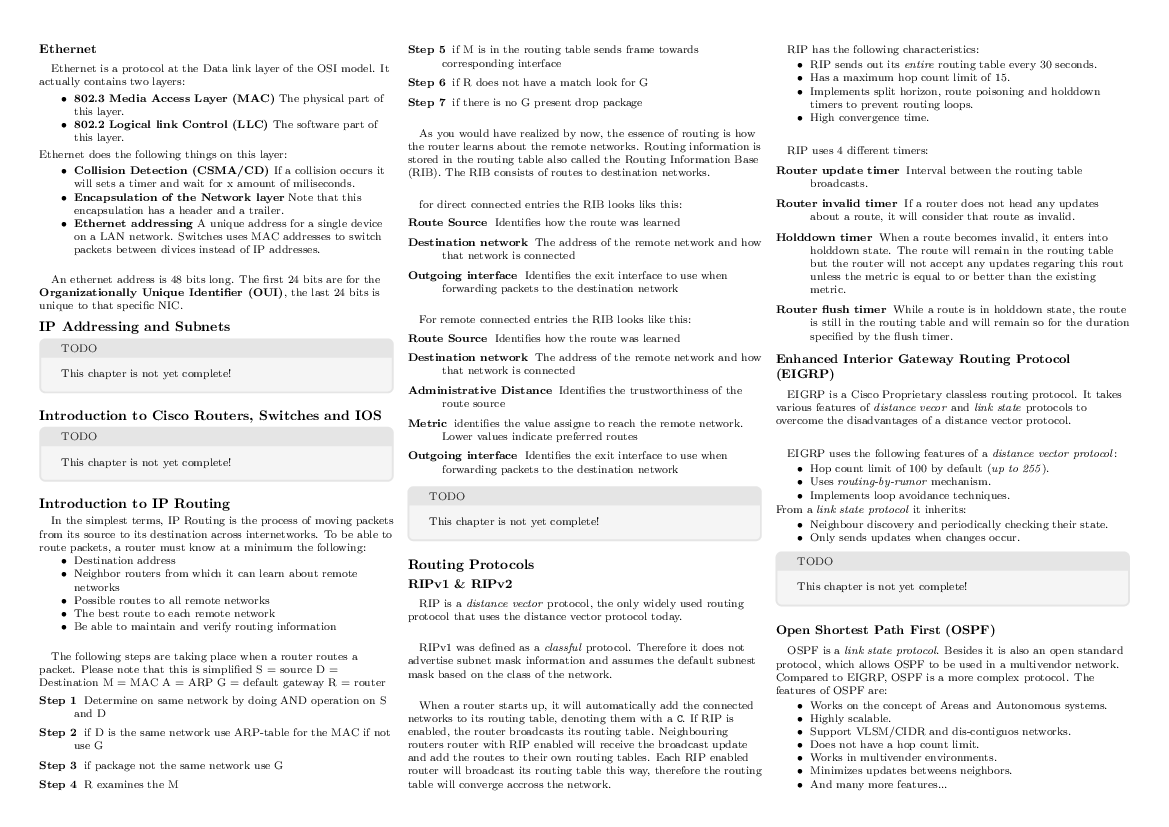
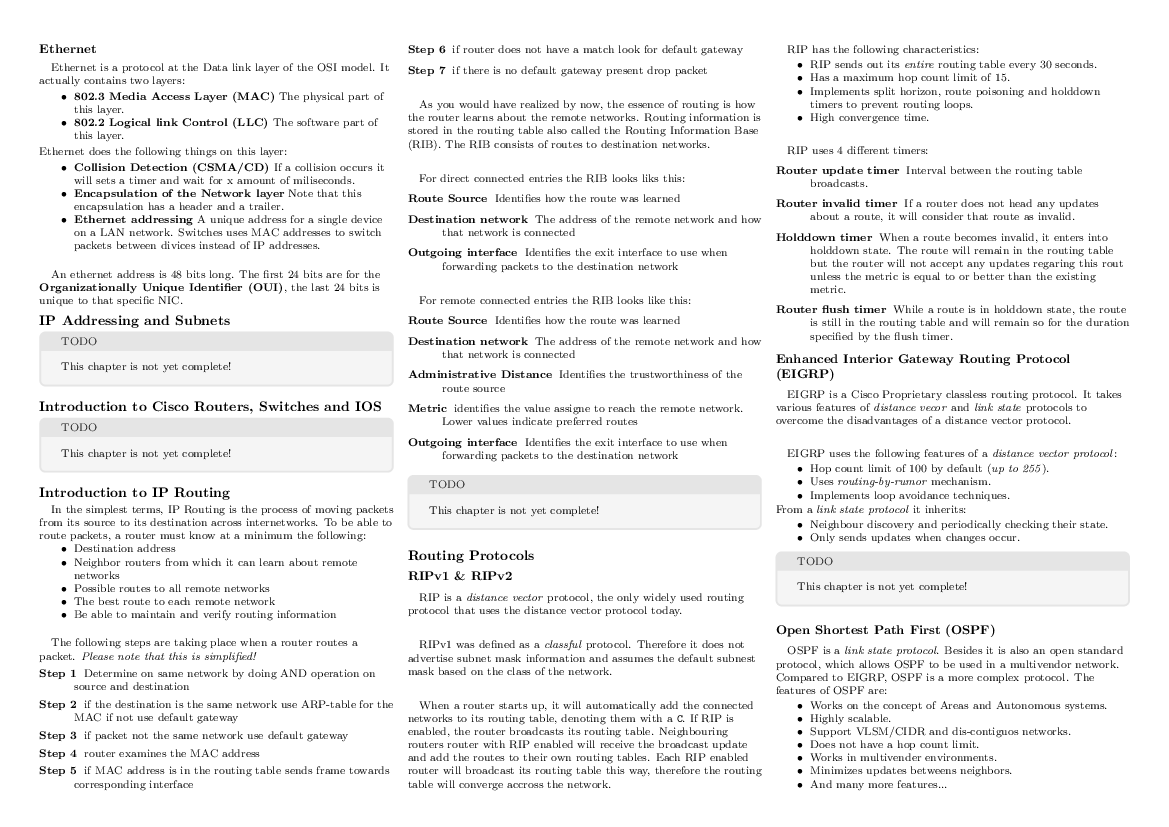
Housekeeping

Changed region(s): [[0.0308, 0.0605, 0.6467, 0.9674], [0.3388, 0.6651, 0.6467, 0.8162]]

diff --git a/summary.tex b/summary.tex
@@ -243,34 +243,24 @@ In the simplest terms, IP Routing is the process of moving packets from its sour
     \item The best route to each remote network
     \item Be able to maintain and verify routing information
 \end{itemize}
-\paragraph{}
-The following steps are taking place when a router routes a packet. Please note that this is simplified
-S = source
-D = Destination
-M = MAC
-A = ARP
-G = default gateway
-R = router
+\paragraph{}The following steps are taking place when a router routes a packet. \textit{Please note that this is simplified!}
 \begin{description}
-	\item[Step 1] Determine on same network by doing AND operation on S and D
-	\item[Step 2] if D is the same network use ARP-table for the MAC if not use G
-	\item[Step 3] if package not the same network use G
-	\item[Step 4] R examines the M
-	\item[Step 5] if M is in the routing table sends frame towards corresponding interface
-	\item[Step 6] if R does not have a match look for G
-	\item[Step 7] if there is no G present drop package
+	\item[Step 1] Determine on same network by doing AND operation on source and destination
+	\item[Step 2] if the destination is the same network use ARP-table for the MAC if not use default gateway
+	\item[Step 3] if packet not the same network use default gateway
+	\item[Step 4] router examines the MAC address
+	\item[Step 5] if MAC address is in the routing table sends frame towards corresponding interface
+	\item[Step 6] if router does not have a match look for default gateway
+	\item[Step 7] if there is no default gateway present drop packet
 \end{description}
-\paragraph{}
-As you would have realized by now, the essence of routing is how the router learns about the remote networks. Routing information is stored in the routing table also called the Routing Information Base (RIB). The RIB consists of routes to destination networks.
-\paragraph{}
-for direct connected entries the RIB looks liks this:
+\paragraph{}As you would have realized by now, the essence of routing is how the router learns about the remote networks. Routing information is stored in the routing table also called the Routing Information Base (RIB). The RIB consists of routes to destination networks.
+\paragraph{}For direct connected entries the RIB looks liks this:
  \begin{description}
 	\item[Route Source] Identifies how the route was learned
 	\item[Destination network]The address of the remote network and how that network is connected
 	\item[Outgoing interface]  Identifies the exit interface to use when forwarding packets to the destination network
 \end{description}
-\paragraph{}
-For remote connected entries the RIB looks like this:
+\paragraph{}For remote connected entries the RIB looks like this:
  \begin{description}
 	\item[Route Source] Identifies how the route was learned
 	\item[Destination network]The address of the remote network and how that network is connected
@@ -278,8 +268,6 @@ For remote connected entries the RIB looks like this:
 	\item[Metric] identifies the value assigne to reach the remote network. Lower values indicate preferred routes
 	\item[Outgoing interface]  Identifies the exit interface to use when forwarding packets to the destination network
 \end{description}
-
-
 
 \begin{textbox}{gray}{TODO}
 	This chapter is not yet complete!
